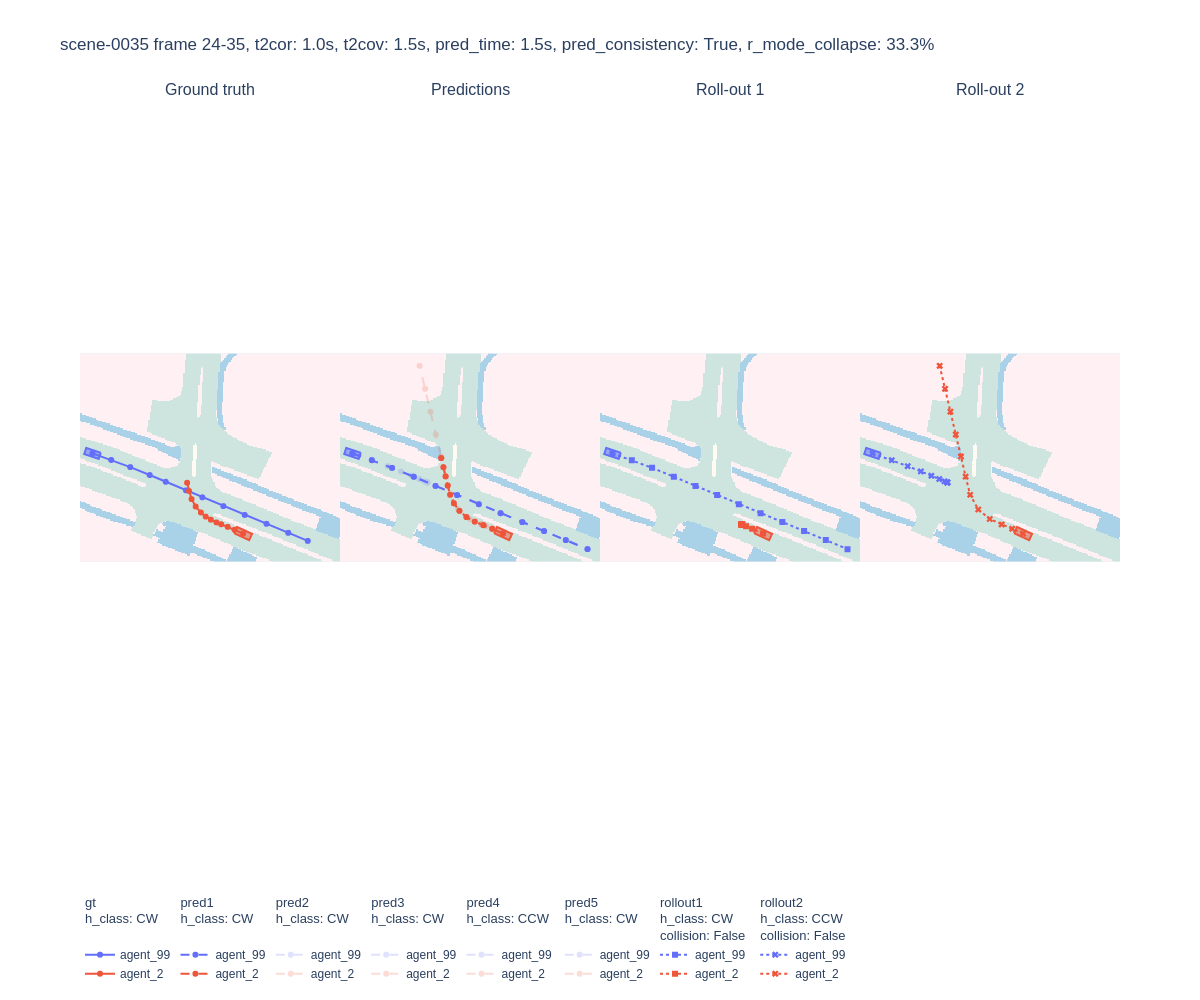
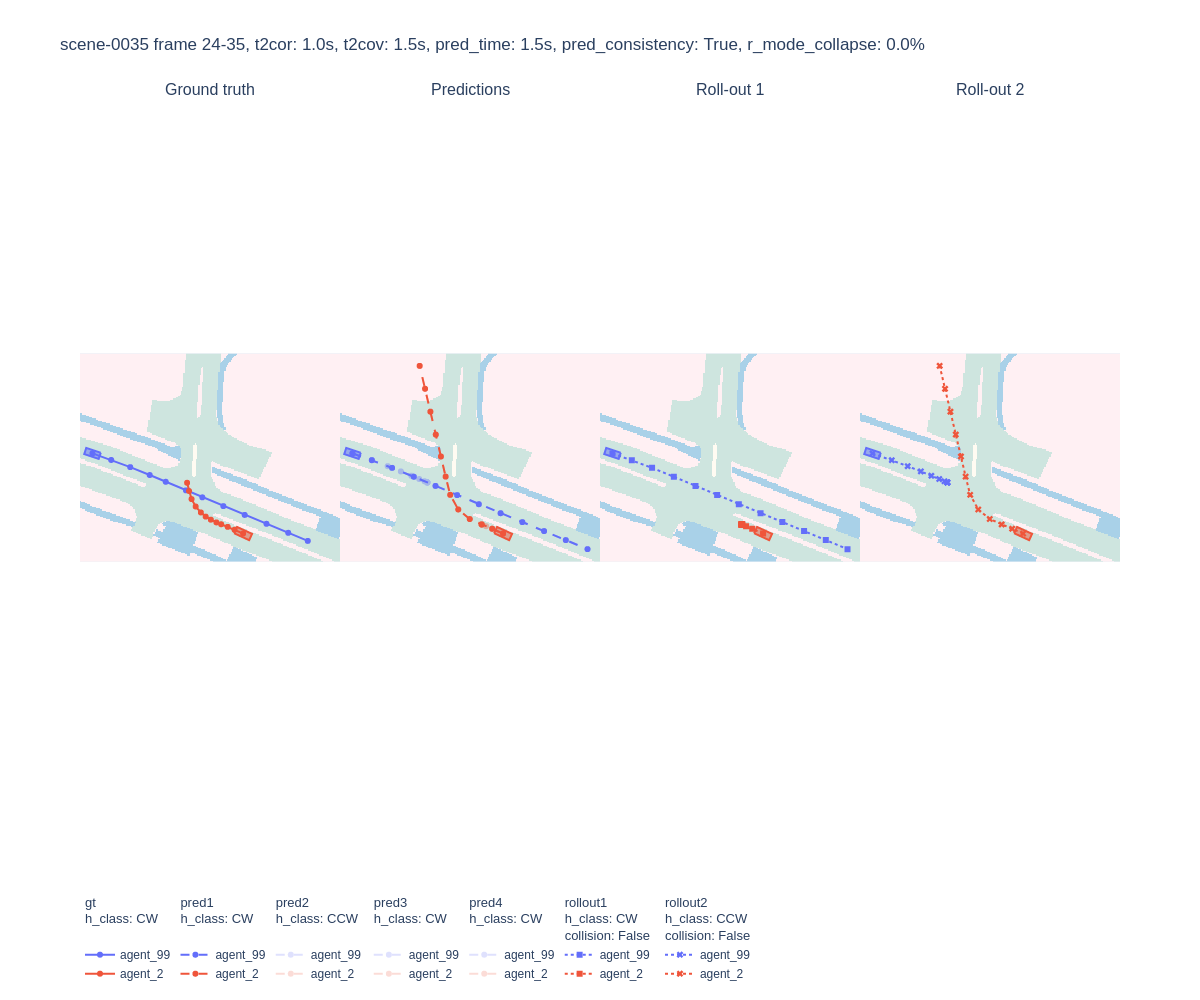
oracle using interacting combinations only + constatn v for the rest

Changed region(s): [[0.2775, 0.899, 0.7092, 0.992], [0.74, 0.031, 0.7708, 0.062], [0.37, 0.496, 0.4008, 0.527]]

diff --git a/oracle_model.py b/oracle_model.py
@@ -4,12 +4,13 @@ import itertools
 from eval_utils import calc_collision_matrix, calc_travelled_distance
 
 
-def get_model_prediction(data, sample_k, agent_dict, use_gt_path = True):
+def get_model_prediction(data, sample_k, agent_dict, path_intersection_bool_frame, use_gt_path = True):
 
     frame_curr = data['frame']
     futures_constant_v = []
     futures_accel = []
     futures_decel = []
+    agents_gt = []
 
     for agent_id in data['valid_id']:
         agent = agent_dict[str(int(agent_id))]
@@ -19,7 +20,7 @@ def get_model_prediction(data, sample_k, agent_dict, use_gt_path = True):
         futures_constant_v.append(fut_agent_constant_v)
         futures_accel.append(fut_agent_accel)
         futures_decel.append(fut_agent_decel)
-
+        agents_gt.append(agent.get_gt_agent(frame_curr))
     
     constant_v = torch.from_numpy(np.stack(futures_constant_v)).unsqueeze(0)[...,0:2]
     accel = torch.from_numpy(np.stack(futures_accel)).unsqueeze(0)[...,0:2]
@@ -29,12 +30,13 @@ def get_model_prediction(data, sample_k, agent_dict, use_gt_path = True):
     # decel = torch.from_numpy(np.stack(futures_decel))[...,0:2]
 
     # make combinations
-    fut_rollout_combinations = get_rollout_combinations(constant_v, accel, decel)
+    fut_rollout_combinations = get_interacting_combinations(constant_v, accel, decel, path_intersection_bool_frame)
 
-    # check collisions (basic distance based one, efficient)
+    # # check collisions (basic distance based one, efficient)
     # collision_matrices, min_distances, _, _ = calc_collision_matrix(fut_rollout_combinations, collision_distance= 3)
     # collision_bool_sims = torch.amax(collision_matrices, dim = (1,2))
     # feasible_rollouts = fut_rollout_combinations[torch.logical_not(collision_bool_sims),...]
+    #TODO: with current plan there could be collisions still, and rejected sims...
 
     feasible_rollouts = fut_rollout_combinations # collision checker moved within rollout combiner for memory issues
     
@@ -81,4 +83,47 @@ def get_rollout_combinations(constant_v, accel, decel):
 
     fut_rollout_combinations = torch.stack(combinations)
 
+    return fut_rollout_combinations
+
+
+def get_interacting_combinations(constant_v, accel, decel, path_intersection_bool_frame):
+    combinations = []
+
+    roll_out_matrix = torch.cat([constant_v, accel, decel])
+    N_sims, N_agents, _, _ = roll_out_matrix.shape
+
+    # first do interacting rollouts / the rest constant velocity... 
+    sim_constant_v = roll_out_matrix[[0],...] 
+
+    # get interaction agents:
+    agent1_idx, agent2_idx = torch.where(torch.from_numpy(path_intersection_bool_frame))
+    N__interactions = len(agent1_idx)
+    indices_interacting_agents = np.unique(list(agent1_idx) + list(agent2_idx))
+    N_interacting_agents = len(indices_interacting_agents)
+
+    # only sim accel/decel for interacting pairs!!!
+    sim_combinations = itertools.product(range(1, N_sims), repeat=N_interacting_agents) 
+    indices = torch.tensor(list(sim_combinations),  dtype=torch.int) # just interacting agents
+
+    indices_all = torch.zeros((indices.shape[0], N_agents),  dtype=torch.int) # constant velocity as default
+    indices_all[:,indices_interacting_agents] = indices
+
+    for idx_comb in range(indices_all.shape[0]):
+        sim = torch.stack(
+            [roll_out_matrix[indices_all[idx_comb, idx_agent], idx_agent,...] for idx_agent in range(N_agents)])
+        
+        # # only check collision for interacting pairs (the rest could theoretically brake/accelerate without colliding)
+        # sim_interacting_agents = sim[list(indices_interacting_agents), ...]
+        # collision_matrices, min_distances, _, _ = calc_collision_matrix(sim_interacting_agents.unsqueeze(0), collision_distance= 3)
+        # collision_bool_sims = torch.amax(collision_matrices, dim = (1,2))
+        # if collision_bool_sims:
+        #     continue
+        # else:
+
+        # assume no collisiosn for now (evaluation stops anyway once a rollout is infeasible...what about constant vel>>?)    
+        combinations.append(sim)
+
+    fut_rollout_combinations = torch.stack(combinations)
+    # then check agian for collisions, and adjust rollouts accordingly ??
+    
     return fut_rollout_combinations

diff --git a/eval_oracle.py b/eval_oracle.py
@@ -63,7 +63,7 @@ scene_names = [scene_preprocessors[s].seq_name for s in range(len(scene_preproce
 
 for idx, row in df_interactions.iterrows():
 
-    # try:
+    try:
         # get relevant interaction variables
         scene_name = row['scene']
         scene = scene_preprocessors[scene_names.index(scene_name)]
@@ -92,6 +92,7 @@ for idx, row in df_interactions.iterrows():
                 agent_class = Agent(df_agent, v_max = vmax_scene) # impose vmax based on gt scene velocities
                 agent_dict.update({agent: agent_class})
 
+            path_intersection_bool, inframes_bool, df_modemetrics_scene = calc_path_intersections(df_scene, agents_scene, pred_frames)
 
             figs_scene = []
             modes_scene = []
@@ -110,8 +111,12 @@ for idx, row in df_interactions.iterrows():
                 sys.stdout.write('testing seq: %s, frame: %06d                \r' % (seq_name, frame))  
                 sys.stdout.flush()
 
+                # path_intersction for current agents in frame
+                idx_scene_agents = [agents_scene.index(str(int(agent_id))) for agent_id in data['valid_id']]
+                path_intersection_bool_frame = path_intersection_bool[idx_scene_agents,:][:,idx_scene_agents] # re-order according to data[valid_id]
+                
                 # Make oracle prediction
-                recon_motion_3D, sample_motion_3D = get_model_prediction(data, cfg.sample_k, agent_dict, use_gt_path = True)
+                recon_motion_3D, sample_motion_3D = get_model_prediction(data, cfg.sample_k, agent_dict, path_intersection_bool_frame, use_gt_path = True)
 
                 # data['scene_vis_map'].visualize_trajs(data, sample_motion_3D)
 
@@ -146,15 +151,15 @@ for idx, row in df_interactions.iterrows():
                 figs_scene.append(fig)
                 modes_scene.append(scene_mode_dict)
 
-                if frame == 11:
-                    fig.update_layout(
-                        margin=dict(
-                            l=0,  # left margin
-                            r=0,  # right margin
-                        )
-                    )
-                    fig.show()
-                    pio.write_image(fig, 'example_vis_method.png',width=0.8*1700/1.1, height=0.8*800/1.2)
+                # if frame == 11:
+                #     fig.update_layout(
+                #         margin=dict(
+                #             l=0,  # left margin
+                #             r=0,  # right margin
+                #         )
+                #     )
+                #     fig.show()
+                #     pio.write_image(fig, 'example_vis_method.png',width=0.8*1700/1.1, height=0.8*800/1.2)
 
 
                 if plot_all:
@@ -198,8 +203,8 @@ for idx, row in df_interactions.iterrows():
                         print('prediction length too short for mode evaluation')
                     break # break for loop 
 
-    # except Exception as e:
-    #     print(e)
+    except Exception as e:
+        print(e)
 # save df
 if not focus_scene_bool:
     df_interactions.to_csv(f'interaction_mode_metrics_oracle_{split}.csv', index = False)

diff --git a/agent_class.py b/agent_class.py
@@ -65,6 +65,24 @@ class Agent():
         self.f_k_s  = interpolate.interp1d(self.gt_s, self.gt_k, fill_value='extrapolate', assume_sorted=True) # NO UTURNS  
         self.f_heading_s  = interpolate.interp1d(self.gt_s, self.gt_heading, fill_value=(self.gt_heading[0], self.gt_heading[-1]), assume_sorted=True, bounds_error= False) # DO NOT EXTRAPOLATE HEADING
         
+    def get_gt_agent(self, frame_curr):
+        #TODO: might still need to make option for longer futsteps
+        df_agent_fut = self.df_agent.copy().reset_index() # reinitlaize new copy of gt
+        pred_idx = (df_agent_fut['frame'] > frame_curr) * (df_agent_fut['frame'] <= frame_curr + self.fut_steps) 
+        fut_rollout = df_agent_fut[pred_idx][['x', 'y']].values
+
+        if fut_rollout.shape[0] < self.fut_steps:
+            # fut_rollout_repeat = np.zeros((self.fut_steps, 3))
+            fut_rollout_repeat = np.zeros((self.fut_steps, 2))
+            fut_rollout_repeat[:,0] = fut_rollout[-1,0]
+            fut_rollout_repeat[:,1] = fut_rollout[-1,1]
+            # fut_rollout_repeat[:,2] = fut_rollout[-1,2]
+            fut_rollout_repeat[0:fut_rollout.shape[0],:] = fut_rollout
+            fut_rollout = fut_rollout_repeat
+        
+        gt_agent = fut_rollout
+        return gt_agent
+
     def rollout_future(self, frame_curr, direction = 'accel', use_gt_path = True):
         df_agent_fut = self.df_agent.copy().reset_index() # reinitlaize new copy of gt
 

diff --git a/plot_modemetrics.py b/plot_modemetrics.py
@@ -7,6 +7,12 @@ import pandas as pd
 
 split = 'val'
 df_interactions = pd.read_csv(f'interaction_mode_metrics_{split}.csv')
+df_interactions['method'] = 'AgentFormer'
+
+df_interactions_pre = pd.read_csv('interaction_mode_metrics_oracle_val.csv')
+df_interactions_pre['method'] = 'Oracle'
+
+df_interactions = pd.concat([df_interactions, df_interactions_pre])
 
 df_interactions = df_interactions.dropna()
 
@@ -37,13 +43,13 @@ print(f'Prediction consistency = {round(100*r_pred_consistency,1)}%')
 print(f"Average mode-collapse = {round(df_interactions['r_mode_collapse'].mean(),1)}%")
 
 # Plot histogram using Plotly Express
-fig = px.histogram(df_interactions, x='r_mode_collapse', nbins=11, title='mode collapse ratio')
+fig = px.histogram(df_interactions, x='r_mode_collapse', color = 'method', barmode= 'group',nbins=11, title='mode collapse ratio')
 fig.show()
 
 # find better definition for relative metrics! 
 
-fig = px.histogram(df_interactions, x='metric t2cor', nbins=10, title='time to correct prediction [s]')
+fig = px.histogram(df_interactions, x='metric t2cor',color = 'method', barmode= 'group',nbins=10, title='time to correct prediction [s]')
 fig.show()
 
-fig = px.histogram(df_interactions, x='metric t2cov', nbins=10, title='time to covered prediction [s]')
+fig = px.histogram(df_interactions, x='metric t2cov',color = 'method', barmode= 'group',nbins=10, title='time to covered prediction [s]')
 fig.show()

diff --git a/eval_utils.py b/eval_utils.py
@@ -373,7 +373,7 @@ def calc_path_intersections(df_scene, agents_scene, pred_frames, interp_factor =
     # motion_tensor_interpy = tensor_interpolate(motion_tensor[:,:,:,1], scale_factor = interp_factor, mode = 'linear', align_corners=True)
     # motion_tensor_interp = torch.stack((motion_tensor_interpx, motion_tensor_interpy)).permute(1,2,3,0)
 
-    path_intersection_bool = np.ones((num_frames, num_agents, num_agents)) * 9999
+    path_intersection_bool = np.zeros((num_agents, num_agents)) * False
     inframes_bool = np.zeros((num_frames, num_agents, num_agents)) # both agents in frame
 
     # need interpolation here! FIX PROPER INTERPOLATION!!!!! This should resolve proper on_path bools!!! #TODO use np
@@ -425,6 +425,7 @@ def calc_path_intersections(df_scene, agents_scene, pred_frames, interp_factor =
 
                 pathcrossing_interaction = len(interaction) > 2 and interaction.argmax() > 0
                 if pathcrossing_interaction:
+                    path_intersection_bool[i,j] = True
                     common_start_frame = pred_frames[inframes].min()
                     common_end_frame = pred_frames[inframes].max()
                     df_modes.loc[len(df_modes.index)] = [agent1_id, agent2_id, num_agents, common_start_frame, common_end_frame]
